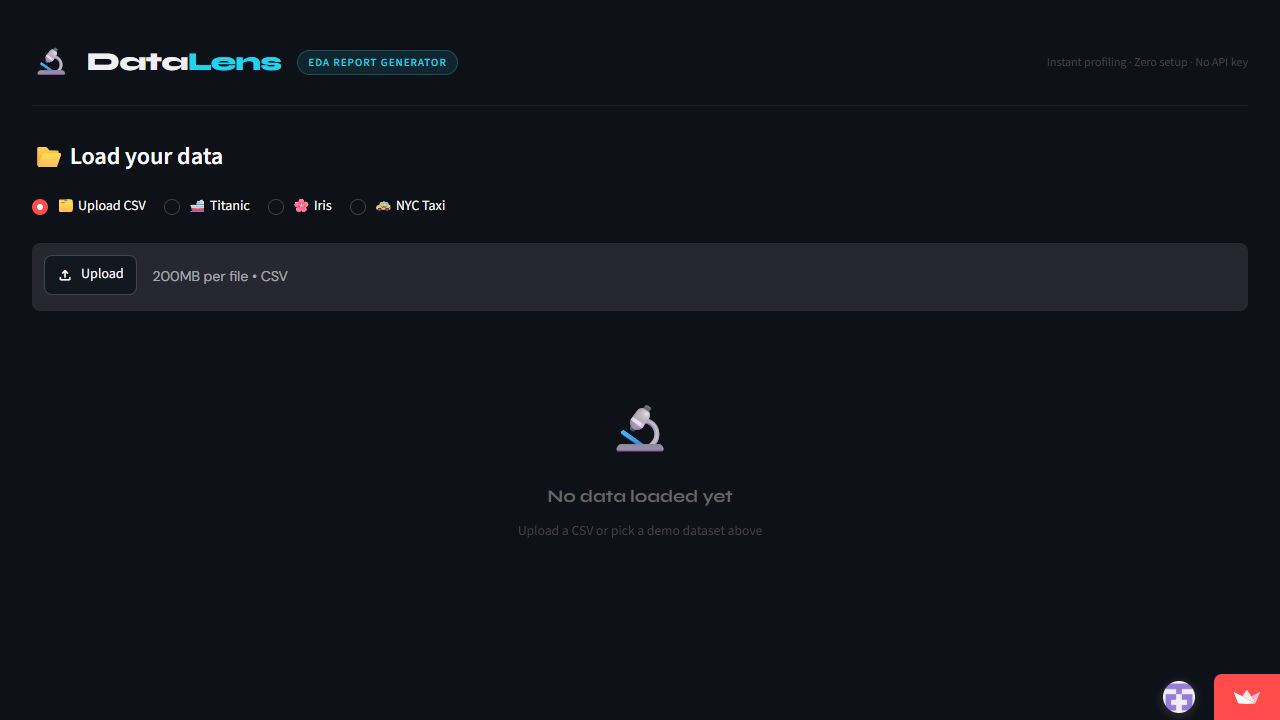
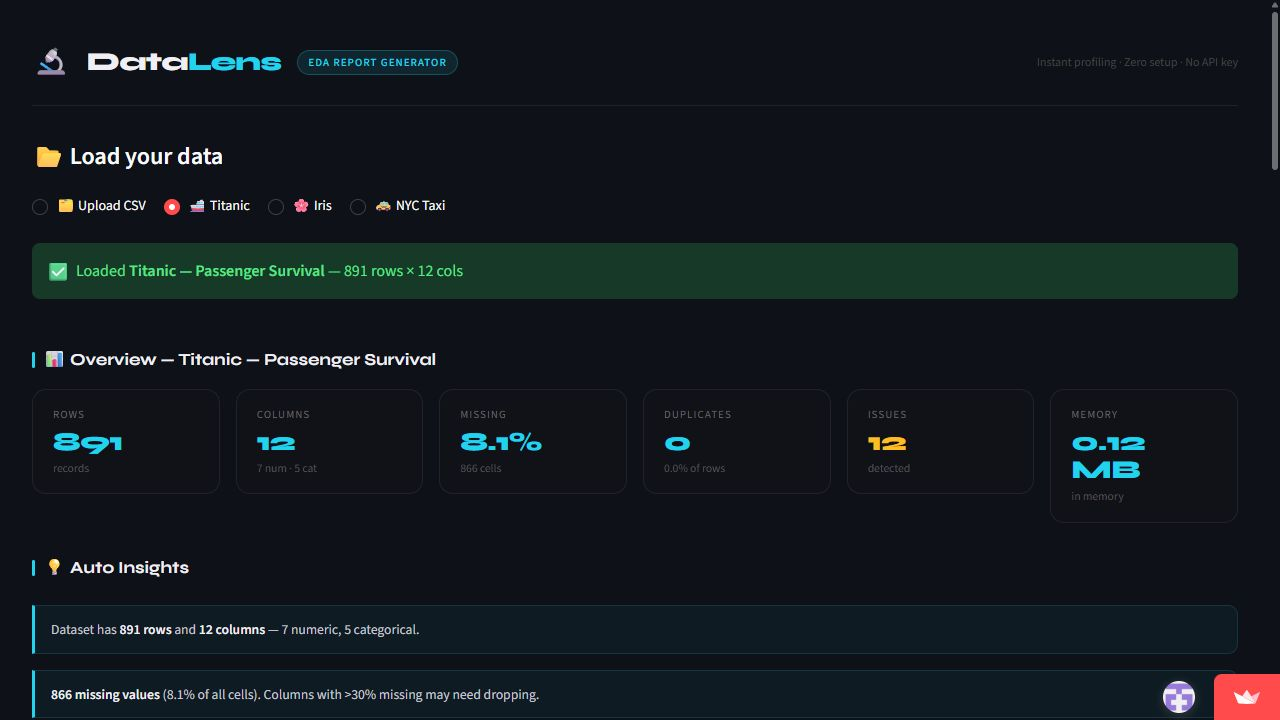
Improve project screenshot presentation

diff --git a/projects/datalens.html b/projects/datalens.html
@@ -14,7 +14,7 @@
   <header class="site-header" id="top"><div class="nav shell"><a class="brand" href="../index.html" aria-label="Krishna Vaddi, portfolio home"><img src="../krishna_vaddi.webp" alt="" width="32" height="32"><span class="status-dot" aria-hidden="true"></span><span>Krishna Vaddi</span></a><button class="menu-toggle" id="menuToggle" type="button" aria-expanded="false" aria-controls="siteNav"><span class="sr-only">Open navigation</span><span aria-hidden="true"></span><span aria-hidden="true"></span><span aria-hidden="true"></span></button><nav class="nav-links" id="siteNav" aria-label="Primary navigation"><a href="../index.html#projects">Projects</a><a href="../index.html#experience">Experience</a><a href="../index.html#skills">Skills</a><a href="../index.html#publications">Publications</a><a href="#contact">Contact</a></nav><div class="nav-actions"><button class="theme-toggle" id="themeToggle" type="button" aria-label="Switch to light theme" title="Switch theme"><span aria-hidden="true">&#9680;</span></button><a class="button button-small button-ghost" href="../assets/documents/Krishna_Sanjay_Vaddi_ML_Engineer_Resume.pdf" download>Resume &darr;</a><a class="button button-small button-ghost" href="mailto:krishnasanjayvaddi2@gmail.com">Let's talk</a></div></div></header>
   <main class="case-main" id="main-content">
     <section class="case-hero shell"><nav class="breadcrumb" aria-label="Breadcrumb"><a href="../index.html">Portfolio</a><span>/</span><a href="../index.html#projects">Projects</a><span>/</span><span>DataLens</span></nav><div class="case-hero-grid"><div><p class="section-kicker">Analytics product &middot; Data quality</p><h1>DataLens</h1><p class="case-deck">A zero-configuration Streamlit application that profiles an uploaded CSV, ranks quality issues, explains statistical signals, and builds an interactive exploratory report without sending data to an LLM.</p></div><div class="case-actions"><a class="button button-primary" href="https://datalens-x4seve4uqecrujmqwmzoth.streamlit.app/" target="_blank" rel="noopener">Open live demo &nearr;</a><a class="button button-ghost" href="https://github.com/KrishnaSanjay21/DataLens" target="_blank" rel="noopener">View source &nearr;</a></div></div><div class="case-stats" aria-label="Project evidence"><div><strong>3</strong><span>Built-in demonstration datasets</span></div><div><strong>5+</strong><span>Quality issue families detected</span></div><div><strong>0</strong><span>API keys or LLM calls required</span></div><div><strong>Live</strong><span>Public Streamlit deployment</span></div></div></section>
-    <figure class="case-visual shell"><div class="case-visual-frame"><img src="../assets/images/projects/datalens-dashboard.png" alt="DataLens interface offering CSV upload and Titanic, Iris, and NYC Taxi demonstration data" width="1280" height="720"></div><figcaption>The live product starts with a private upload path and three ready-to-run demonstration datasets.</figcaption></figure>
+    <figure class="case-visual shell"><div class="case-visual-frame has-product-shot" data-visual-label="DataLens / Titanic profile"><img src="../assets/images/projects/datalens-dashboard.png" alt="DataLens populated Titanic profile showing dataset dimensions, missingness, duplicates, issues, memory, and automatic insights" width="1280" height="720"></div><figcaption>The populated Titanic sample immediately surfaces six overview metrics and deterministic data-quality insights.</figcaption></figure>
     <div class="case-layout shell"><article class="case-content">
       <section><p class="section-kicker">The problem</p><h2>Useful EDA should begin before a notebook is configured.</h2><p>Analysts repeatedly write the same first-pass code to inspect types, missing values, duplicates, distributions, outliers, and correlations. DataLens packages that work into one deterministic flow so a new dataset can be assessed immediately and the highest-risk quality problems surface first.</p><div class="case-callout"><strong>Product principle</strong><p>Every plain-English finding is derived from measured statistics and explicit rules. The application does not invent explanations or require an external inference service.</p></div></section>
       <section><p class="section-kicker">System architecture</p><h2>One in-process pipeline turns a CSV into an explorable report.</h2><div class="system-diagram" role="img" aria-label="CSV or sample data flows through type inference, statistical profiling, rule-based diagnosis, and interactive report rendering"><div class="system-stage"><small>01 / INPUT</small><strong>CSV or samples</strong><span>User upload, Titanic, Iris, or NYC Taxi.</span></div><div class="system-stage"><small>02 / SCHEMA</small><strong>Type inference</strong><span>Pandas identifies numeric and categorical fields.</span></div><div class="system-stage"><small>03 / PROFILE</small><strong>Statistics</strong><span>Shape, missingness, duplicates, skew, kurtosis, cardinality.</span></div><div class="system-stage"><small>04 / DIAGNOSE</small><strong>Rule engine</strong><span>Severity-ranked findings and recommendations.</span></div><div class="system-stage"><small>05 / PRESENT</small><strong>Plotly report</strong><span>Charts, tables, search, and CSV download.</span></div></div></section>

diff --git a/index.html b/index.html
@@ -191,8 +191,8 @@
               <a class="live-link" href="https://taxibot-3bq2vahloszdn7mbrjkh8u.streamlit.app/" target="_blank" rel="noopener" aria-label="Open live TaxiBot demo"><span class="live-dot" aria-hidden="true"></span>Live demo</a>
             </div>
           </div>
-          <a class="project-media" href="projects/taxibot.html" aria-label="Read the TaxiBot case study">
-            <img src="assets/images/projects/taxibot-dashboard.png" alt="TaxiBot dashboard showing natural-language prompts, dataset metrics, and interactive taxi charts" width="1920" height="1014" loading="lazy">
+          <a class="project-media project-media-shot" data-visual-label="Live product / query result" href="projects/taxibot.html" aria-label="Read the TaxiBot case study">
+            <img src="assets/images/projects/taxibot-dashboard.png" alt="TaxiBot analysis showing a natural-language question, generated SQL, explanation, and average-fare chart" width="1280" height="720" loading="lazy">
           </a>
           <h3>TaxiBot</h3>
           <p>Natural-language business-intelligence copilot that converts questions into SQLite queries, selects a chart, and explains the result.</p>
@@ -228,7 +228,7 @@
               <a class="live-link" href="https://shopgenie-38esar44rpqhmaz9r3it3b.streamlit.app/" target="_blank" rel="noopener" aria-label="Open live ShopGenie-E demo"><span class="live-dot" aria-hidden="true"></span>Live demo</a>
             </div>
           </div>
-          <a class="project-media" href="projects/shopgenie.html" aria-label="Read the ShopGenie-E case study">
+          <a class="project-media project-media-shot" data-visual-label="Live product / agent workspace" href="projects/shopgenie.html" aria-label="Read the ShopGenie-E case study">
             <img src="assets/images/projects/shopgenie-interface.png" alt="ShopGenie-E interface with agent monitor and product-research prompt" width="1280" height="720" loading="lazy">
           </a>
           <h3>ShopGenie-E</h3>
@@ -266,8 +266,8 @@
               <a class="live-link" href="https://datalens-x4seve4uqecrujmqwmzoth.streamlit.app/" target="_blank" rel="noopener" aria-label="Open live DataLens demo"><span class="live-dot" aria-hidden="true"></span>Live demo</a>
             </div>
           </div>
-          <a class="project-media" href="projects/datalens.html" aria-label="Read the DataLens case study">
-            <img src="assets/images/projects/datalens-dashboard.png" alt="DataLens interface with CSV upload and built-in demonstration dataset options" width="1280" height="720" loading="lazy">
+          <a class="project-media project-media-shot" data-visual-label="Live product / Titanic profile" href="projects/datalens.html" aria-label="Read the DataLens case study">
+            <img src="assets/images/projects/datalens-dashboard.png" alt="DataLens populated Titanic profile showing dataset dimensions, missingness, duplicates, issues, memory, and automatic insights" width="1280" height="720" loading="lazy">
           </a>
           <h3>DataLens</h3>
           <p>Zero-configuration exploratory-data-analysis tool that turns an uploaded CSV into quality checks, charts, correlations, and statistical insights.</p>

diff --git a/assets/css/custom.css b/assets/css/custom.css
@@ -628,6 +628,44 @@ footer h2 {
   object-fit: contain;
 }
 
+.project-media-shot {
+  position: relative;
+  padding: 30px 8px 8px;
+  border-color: color-mix(in srgb, var(--accent) 22%, var(--border));
+  background: #070a10;
+  box-shadow: 0 18px 40px rgba(2, 6, 12, 0.22);
+}
+
+.project-media-shot::before {
+  position: absolute;
+  top: 13px;
+  left: 16px;
+  width: 6px;
+  height: 6px;
+  border-radius: 50%;
+  background: #ff6b61;
+  box-shadow: 12px 0 #f4b942, 24px 0 #4cc38a;
+  content: "";
+}
+
+.project-media-shot::after {
+  position: absolute;
+  top: 9px;
+  right: 14px;
+  color: #7f8a9d;
+  font-family: "JetBrains Mono", ui-monospace, monospace;
+  font-size: 8px;
+  font-weight: 700;
+  letter-spacing: 0.08em;
+  text-transform: uppercase;
+  content: attr(data-visual-label);
+}
+
+.project-media-shot img {
+  border: 1px solid rgba(255, 255, 255, 0.08);
+  border-radius: 6px;
+}
+
 .project-card:hover .project-media img {
   transform: scale(1.012);
 }
@@ -1316,6 +1354,44 @@ footer {
   border-radius: var(--radius);
   background: var(--surface);
   box-shadow: var(--shadow);
+}
+
+.case-visual-frame.has-product-shot {
+  position: relative;
+  padding: 46px 12px 12px;
+  border-color: color-mix(in srgb, var(--accent) 26%, var(--border-strong));
+  background: #070a10;
+  box-shadow: 0 28px 70px rgba(2, 6, 12, 0.3);
+}
+
+.case-visual-frame.has-product-shot::before {
+  position: absolute;
+  top: 19px;
+  left: 22px;
+  width: 7px;
+  height: 7px;
+  border-radius: 50%;
+  background: #ff6b61;
+  box-shadow: 14px 0 #f4b942, 28px 0 #4cc38a;
+  content: "";
+}
+
+.case-visual-frame.has-product-shot::after {
+  position: absolute;
+  top: 14px;
+  right: 20px;
+  color: #8994a8;
+  font-family: "JetBrains Mono", ui-monospace, monospace;
+  font-size: 9px;
+  font-weight: 700;
+  letter-spacing: 0.09em;
+  text-transform: uppercase;
+  content: attr(data-visual-label);
+}
+
+.case-visual-frame.has-product-shot img {
+  border: 1px solid rgba(255, 255, 255, 0.08);
+  border-radius: 8px;
 }
 
 .case-visual img {

diff --git a/projects/shopgenie.html b/projects/shopgenie.html
@@ -40,7 +40,7 @@
       <div class="case-stats" aria-label="Project evidence"><div><strong>5</strong><span>Workflow nodes from intent through evaluation</span></div><div><strong>0–10</strong><span>Requirements-based Genie Score</span></div><div><strong>Top 3</strong><span>Powerhouse, balanced, and budget options</span></div><div><strong>Live</strong><span>Tavily product and image retrieval</span></div></div>
     </section>
 
-    <figure class="case-visual shell"><div class="case-visual-frame"><img src="../assets/images/projects/shopgenie-interface.png" alt="ShopGenie-E interface with agent status, logo, and shopping prompt" width="1280" height="720"></div><figcaption>The live interface exposes workflow status and starts with a constraint-oriented shopping prompt.</figcaption></figure>
+    <figure class="case-visual shell"><div class="case-visual-frame has-product-shot" data-visual-label="ShopGenie-E / agent workspace"><img src="../assets/images/projects/shopgenie-interface.png" alt="ShopGenie-E interface with agent monitor, brand panel, and constraint-oriented shopping prompt" width="1280" height="720"></div><figcaption>The live workspace keeps agent health visible beside a focused, constraint-oriented shopping prompt.</figcaption></figure>
 
     <div class="case-layout shell">
       <article class="case-content">

diff --git a/projects/taxibot.html b/projects/taxibot.html
@@ -42,7 +42,7 @@
       </div>
     </section>
 
-    <figure class="case-visual shell"><div class="case-visual-frame"><img src="../assets/images/projects/taxibot-dashboard.png" alt="TaxiBot dashboard with suggested questions, taxi metrics, and Plotly charts" width="1920" height="1014"></div><figcaption>The deployed Streamlit product pairs a conversational workspace with live dataset context and visual results.</figcaption></figure>
+    <figure class="case-visual shell"><div class="case-visual-frame has-product-shot" data-visual-label="TaxiBot / live query result"><img src="../assets/images/projects/taxibot-dashboard.png" alt="TaxiBot analysis showing a natural-language question, generated SQL, explanation, and average-fare chart" width="1280" height="720"></div><figcaption>A real query result connects the user's question to generated SQL, a plain-English explanation, and an interactive borough-level chart.</figcaption></figure>
 
     <div class="case-layout shell">
       <article class="case-content">
